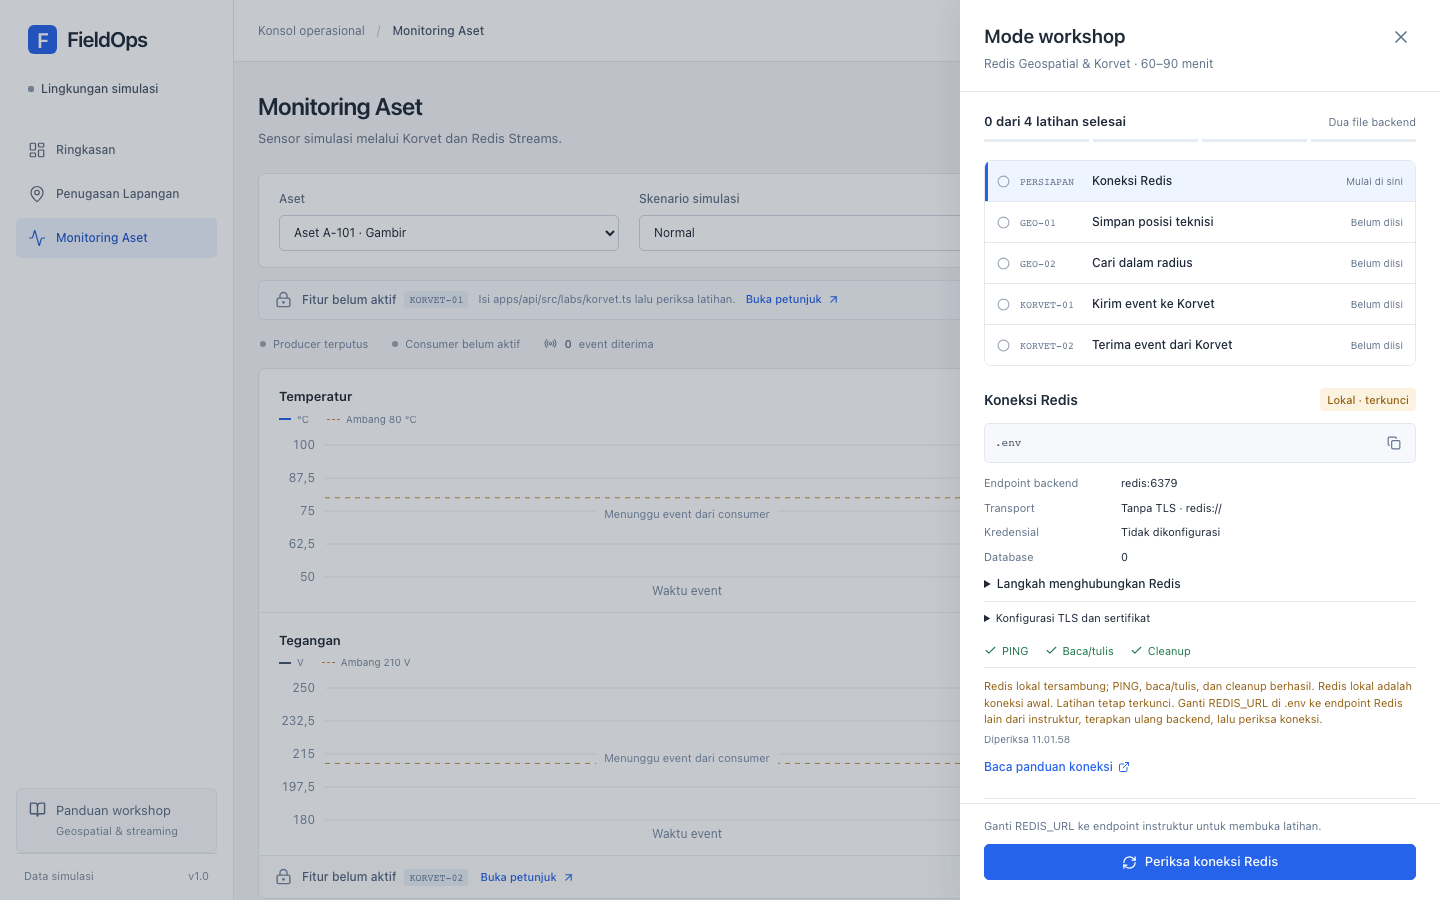
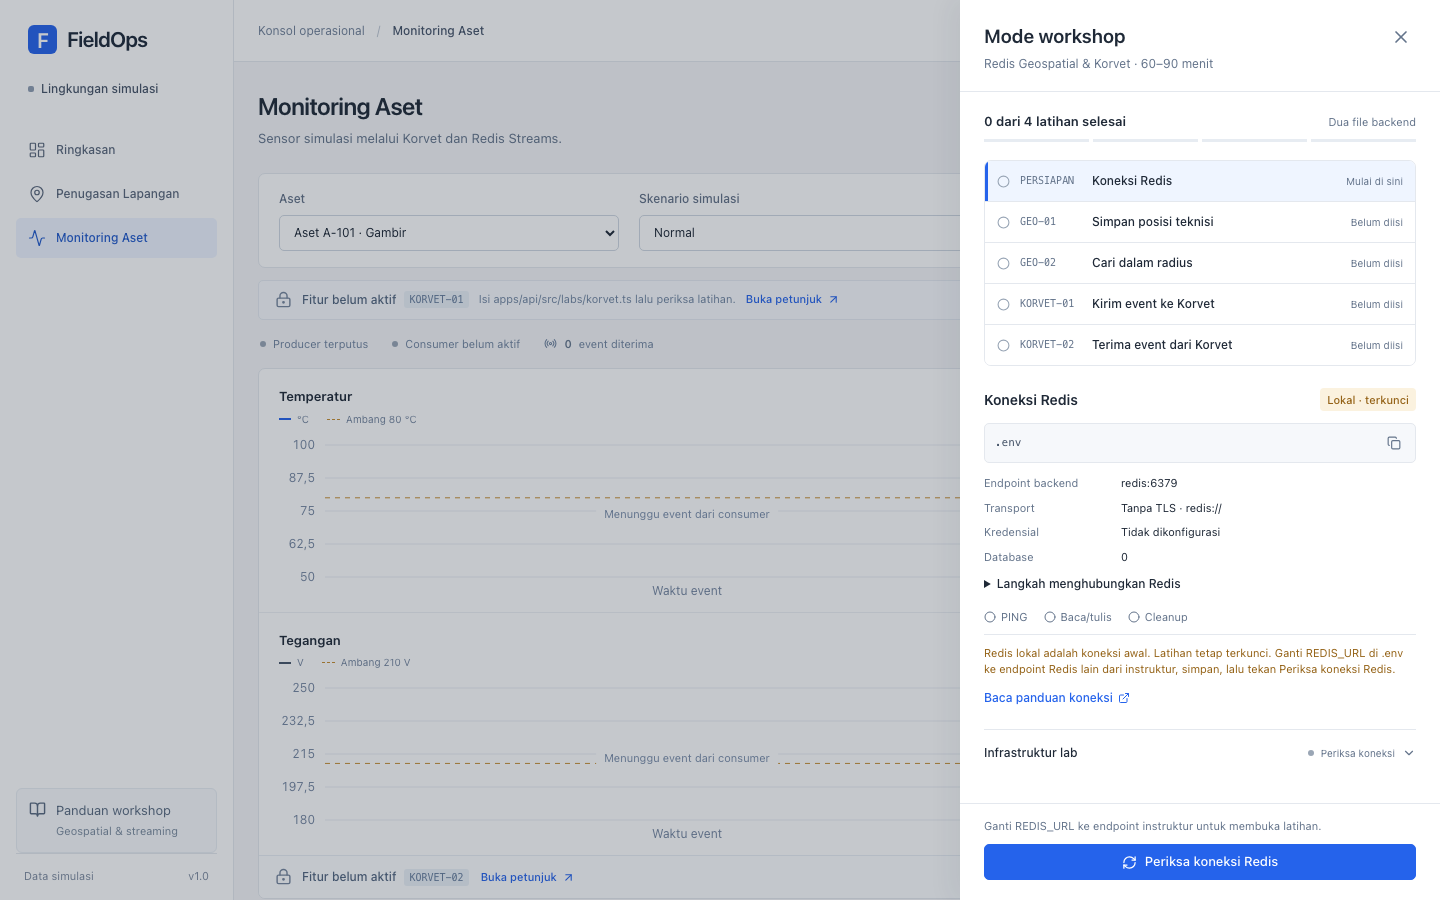
update readme

diff --git a/apps/api/src/operations/runtime.ts b/apps/api/src/operations/runtime.ts
@@ -3,11 +3,12 @@ import type { Consumer } from 'kafkajs';
 import { saveTechnicianPosition, findNearbyTechnicians } from '../labs/geo.js';
 import { publishTelemetry, consumeTelemetry } from '../labs/korvet.js';
 import { config } from '../infrastructure/config.js';
+import { readRedisEnvironment } from '../infrastructure/redis-environment.js';
 import { Infrastructure, makeConsumer } from '../infrastructure/clients.js';
 import { State } from './state.js';
 import { resetLabData } from './reset-data.js';
 import { Validator } from '../workshop/validator.js';
-import { checkRedisConnection } from '../workshop/redis-connection.js';
+import { checkRedisConnection, initialRedisConnection } from '../workshop/redis-connection.js';
 import { assets } from './fixtures.js';
 import { storedEvent } from '../infrastructure/stream-storage.js';
 import { ApiError, InfrastructureError, safeMessage, timeout } from '../shared/errors.js';
@@ -75,26 +76,54 @@ export class Runtime {
       throw new ApiError(409, 'Tunggu pemeriksaan yang sedang berjalan.');
     this.state.data.redisConnection.status = 'checking';
     this.state.emit();
-    const connection = await checkRedisConnection();
-    if (connection.status === 'passed') {
-      try {
-        await this.infra.connectRedis();
-      } catch {
-        connection.status = 'failed';
-        connection.message =
-          'Koneksi utama Redis belum siap. Periksa endpoint dan jaringan, lalu periksa koneksi kembali.';
+    try {
+      const settings = readRedisEnvironment();
+      if (JSON.stringify(settings) !== JSON.stringify(config.redis)) {
+        this.stopSimulator();
+        await this.stopConsumer();
+        await this.infra.resetRedis();
+        config.redis = settings;
+        this.state.clearData();
+        delete this.state.data.simulator.error;
+        for (const exercise of this.state.data.exercises) {
+          exercise.status = 'dependency';
+          exercise.message = 'Koneksi Redis berubah. Periksa latihan kembali pada endpoint ini.';
+          delete exercise.checkedAt;
+        }
       }
+      this.state.data.redisConnection = { ...initialRedisConnection(), status: 'checking' };
+      this.state.emit();
+      const connection = await checkRedisConnection();
+      if (connection.status === 'passed') {
+        try {
+          await this.infra.connectRedis();
+        } catch {
+          connection.status = 'failed';
+          connection.message =
+            'Koneksi utama Redis belum siap. Periksa endpoint dan jaringan, lalu periksa koneksi kembali.';
+        }
+      }
+      this.state.data.redisConnection = connection;
+      if (connection.status === 'passed') {
+        this.infra.enableStreaming();
+        this.state.activity('Koneksi Redis terverifikasi. Empat latihan siap diperiksa.');
+      } else {
+        this.stopSimulator();
+        await this.stopConsumer();
+        await this.infra.resetRedis();
+      }
+    } catch {
+      this.state.data.redisConnection = {
+        ...initialRedisConnection(),
+        status: 'failed',
+        checkedAt: new Date().toISOString(),
+        message: 'Koneksi belum dapat diperbarui. Periksa .env dan jaringan, lalu periksa kembali.',
+      };
+    } finally {
+      this.state.emit();
     }
-    this.state.data.redisConnection = connection;
-    if (this.state.data.redisConnection.status === 'passed') {
-      this.infra.enableStreaming();
-      this.state.activity('Koneksi Redis terverifikasi. Empat latihan siap diperiksa.');
-    } else {
-      this.stopSimulator();
-      await this.stopConsumer();
-    }
-    this.state.emit();
   }
+
   async validate(): Promise<void> {
     if (this.state.data.redisConnection.status !== 'passed') {
       const disconnected = this.state.data.redisConnection.status === 'failed';

diff --git a/apps/api/src/infrastructure/clients.ts b/apps/api/src/infrastructure/clients.ts
@@ -98,6 +98,7 @@ export class Infrastructure {
   korvetReady = false;
   producerReady = false;
   private connecting?: Promise<void>;
+  private resetting?: Promise<void>;
   private closed = false;
   private timer?: ReturnType<typeof setInterval>;
   private streamingEnabled = false;
@@ -111,14 +112,17 @@ export class Infrastructure {
     if (this.redisClient) return this.redisClient;
     const redis = makeRedis(true);
     redis.on('ready', () => {
+      if (this.redisClient !== redis) return;
       this.redisReady = true;
       this.changed();
     });
     redis.on('error', () => {
+      if (this.redisClient !== redis) return;
       this.redisReady = false;
       this.changed();
     });
     redis.on('end', () => {
+      if (this.redisClient !== redis) return;
       this.redisReady = false;
       this.changed();
     });
@@ -151,7 +155,8 @@ export class Infrastructure {
     void this.refresh();
   }
   async refresh(): Promise<void> {
-    if (this.closed || this.connecting) return this.connecting;
+    if (this.closed || this.resetting) return;
+    if (this.connecting) return this.connecting;
     this.connecting = (async () => {
       if (this.streamingEnabled)
         try {
@@ -189,9 +194,29 @@ export class Infrastructure {
         'Korvet tidak tersambung. Periksa KAFKA_BROKERS dan KORVET_BROKER_ADVERTISED_HOST.',
       );
   }
+  /** Tutup client endpoint sebelumnya sebelum konfigurasi Redis diganti dari UI. */
+  async resetRedis(): Promise<void> {
+    if (this.resetting) return this.resetting;
+    this.resetting = (async () => {
+      this.streamingEnabled = false;
+      await this.connecting?.catch(() => {});
+      await this.producer.disconnect().catch(() => {});
+      const redis = this.redisClient;
+      this.redisClient = undefined;
+      this.redisReady = false;
+      this.korvetReady = false;
+      this.producerReady = false;
+      if (redis?.isOpen) await redis.disconnect().catch(() => {});
+      this.changed();
+    })().finally(() => {
+      this.resetting = undefined;
+    });
+    await this.resetting;
+  }
   async close(): Promise<void> {
     this.closed = true;
     clearInterval(this.timer);
+    await this.resetting?.catch(() => {});
     await this.connecting?.catch(() => {});
     await this.producer.disconnect().catch(() => {});
     if (this.redisClient?.isOpen) await this.redisClient.disconnect().catch(() => {});

diff --git a/apps/web/src/features/workshop/RedisConnectionPanel.tsx b/apps/web/src/features/workshop/RedisConnectionPanel.tsx
@@ -78,14 +78,14 @@ export default function RedisConnectionPanel({ connection }: { connection: Redis
             <strong>Isi endpoint database</strong>
             <p>
               Ubah REDIS_URL di .env sesuai endpoint, port, dan akun Redis Enterprise dari
-              instruktur. Redis lokal bawaan hanya koneksi awal; latihan memerlukan endpoint lain.
+              instruktur. Gunakan redis:// atau rediss:// sesuai koneksi database yang disediakan.
             </p>
           </li>
           <li>
-            <strong>Terapkan konfigurasi backend</strong>
+            <strong>Simpan .env</strong>
             <p>
-              Jalankan ulang layanan dengan perintah Compose sesuai mode lab pada panduan. Perubahan
-              .env memerlukan recreate container.
+              Tekan Periksa koneksi Redis setelah menyimpan. Backend membaca ulang .env dan
+              mengganti sambungan yang berubah melalui pemeriksaan ini.
             </p>
           </li>
           <li>
@@ -96,17 +96,6 @@ export default function RedisConnectionPanel({ connection }: { connection: Redis
             </p>
           </li>
         </ol>
-      </details>
-      <details className="connection-tls">
-        <summary>Konfigurasi TLS dan sertifikat</summary>
-        <p>
-          Gunakan rediss:// untuk TLS. Jika memakai CA privat, isi REDIS_CA_FILE. Mutual TLS memakai
-          REDIS_CLIENT_CERT_FILE dan REDIS_CLIENT_KEY_FILE. Sertifikat berada di backend.
-        </p>
-        <p>
-          CA: {endpoint.caConfigured ? 'Dikonfigurasi' : 'Trust store sistem'} · Sertifikat client:{' '}
-          {endpoint.clientCertificateConfigured ? 'Dikonfigurasi' : 'Tidak dikonfigurasi'}
-        </p>
       </details>
       <div className="connection-checks" aria-label="Hasil pemeriksaan koneksi">
         {(

diff --git a/apps/api/src/infrastructure/redis-environment.ts b/apps/api/src/infrastructure/redis-environment.ts
@@ -1,0 +1,35 @@
+import { readFileSync } from 'node:fs';
+import { resolve } from 'node:path';
+import { parse } from 'dotenv';
+import { readRedisSettings } from './redis-settings.js';
+
+let fileWasPresent = false;
+const defaultFile = () =>
+  resolve(process.cwd(), process.cwd().endsWith('/apps/api') ? '../../.env' : '.env');
+
+/** Baca ulang hanya konfigurasi Redis; LAB_ID/topic/group tetap milik instance yang berjalan. */
+export function readRedisEnvironment() {
+  const file = process.env.WORKSHOP_ENV_FILE || defaultFile();
+  try {
+    const values = parse(readFileSync(file));
+    fileWasPresent = true;
+    return readRedisSettings({
+      ...process.env,
+      // File yang tersedia menjadi sumber koneksi. Nilai yang dihapus tidak memakai env lama.
+      REDIS_URL: values.REDIS_URL || '',
+      REDIS_CONNECT_TIMEOUT_MS: values.REDIS_CONNECT_TIMEOUT_MS || '5000',
+    });
+  } catch (error) {
+    // Endpoint instruktur juga bisa disediakan langsung sebagai environment tanpa file.
+    if (
+      (error as NodeJS.ErrnoException).code === 'ENOENT' &&
+      !process.env.WORKSHOP_ENV_FILE &&
+      !fileWasPresent
+    )
+      return readRedisSettings(process.env);
+    const settings = readRedisSettings({});
+    settings.issue =
+      'File .env tidak dapat dibaca backend. Simpan file konfigurasi lab, lalu tekan Periksa koneksi Redis kembali.';
+    return settings;
+  }
+}

diff --git a/apps/api/src/infrastructure/redis-settings.ts b/apps/api/src/infrastructure/redis-settings.ts
@@ -17,8 +17,6 @@ export function readRedisSettings(environment: NodeJS.ProcessEnv) {
     database: 0,
     tls: false,
     credentialsConfigured: false,
-    caConfigured: Boolean(caFile),
-    clientCertificateConfigured: Boolean(certFile && keyFile),
   };
   let issue: string | undefined;
   let options: RedisClientOptions | undefined;
@@ -49,7 +47,7 @@ export function readRedisSettings(environment: NodeJS.ProcessEnv) {
   } catch {
     issue = url
       ? 'REDIS_URL tidak valid. Gunakan redis:// atau rediss:// dengan hostname dan port database. Encode karakter khusus pada username/password.'
-      : 'REDIS_URL belum diisi. Isi endpoint database Redis di .env, terapkan ulang konfigurasi backend, lalu periksa koneksi.';
+      : 'REDIS_URL belum diisi. Isi endpoint database Redis di .env, simpan, lalu tekan Periksa koneksi Redis.';
   }
   if (
     !issue &&

diff --git a/apps/api/src/workshop/redis-connection.ts b/apps/api/src/workshop/redis-connection.ts
@@ -26,7 +26,7 @@ function failureMessage(error: unknown, phase: string): string {
   if (/NOPERM|permission|not allowed/i.test(message))
     return 'Izin ACL belum cukup. Akun perlu PING, SET, GET, dan DEL pada fieldops:<LAB_ID>:check:*.';
   if (/CERT|TLS|SSL|certificate|self.signed/i.test(code + message))
-    return 'TLS gagal. Gunakan rediss://, CA yang benar, hostname sesuai sertifikat, dan cert/key client jika mutual TLS diwajibkan.';
+    return 'TLS gagal. Periksa skema rediss:// dan pengaturan koneksi database dari instruktur.';
   if (/ENOTFOUND|EAI_AGAIN/.test(code))
     return 'Hostname Redis tidak ditemukan. Periksa endpoint database dan akses DNS/VPN dari backend.';
   if (/ECONNREFUSED|ETIMEDOUT|EHOSTUNREACH|ENETUNREACH|socket|timeout|waktu/i.test(code + message))

diff --git a/apps/web/src/features/workshop/WorkshopDrawer.tsx b/apps/web/src/features/workshop/WorkshopDrawer.tsx
@@ -360,7 +360,7 @@ export default function WorkshopDrawer({
                 ? 'Koneksi terverifikasi. Lanjutkan empat latihan backend.'
                 : state.redisConnection.status === 'local'
                   ? 'Ganti REDIS_URL ke endpoint instruktur untuk membuka latihan.'
-                  : 'Terapkan .env di backend, lalu periksa koneksi.'
+                  : 'Simpan .env, lalu tekan Periksa koneksi Redis.'
               : connectionReady
                 ? 'Simpan perubahan di editor, lalu periksa latihan.'
                 : 'Periksa koneksi Redis terlebih dahulu sebelum validasi latihan.'}

diff --git a/apps/api/src/infrastructure/config.ts b/apps/api/src/infrastructure/config.ts
@@ -1,7 +1,7 @@
 import { config as loadEnv } from 'dotenv';
 import { resolve } from 'node:path';
 import { z } from 'zod';
-import { readRedisSettings } from './redis-settings.js';
+import { readRedisEnvironment } from './redis-environment.js';
 loadEnv({
   path: resolve(process.cwd(), process.cwd().endsWith('/apps/api') ? '../../.env' : '.env'),
 });
@@ -23,7 +23,7 @@ export const config = {
   labId,
   topic,
   groupId,
-  redis: readRedisSettings(process.env),
+  redis: readRedisEnvironment(),
   brokers: (process.env.KAFKA_BROKERS || 'localhost:9092')
     .split(',')
     .map((s) => s.trim())

diff --git a/apps/web/src/features/assignment/AssignmentPage.tsx b/apps/web/src/features/assignment/AssignmentPage.tsx
@@ -29,6 +29,12 @@ export default function AssignmentPage({
     setLatitude(String(selected.latitude));
   }, [selectedId, selected.longitude, selected.latitude]);
   useEffect(() => setSuccess(''), [selectedId]);
+  useEffect(() => {
+    if (!s.positionsReady) {
+      setResults([]);
+      setSearched(false);
+    }
+  }, [s.positionsReady]);
   const connectionReady = s.redisConnection.status === 'passed' && s.infra.redis;
   const saveUnlocked =
     connectionReady && s.exercises.find((e) => e.id === 'GEO-01')?.status === 'passed';

diff --git a/apps/api/src/infrastructure/redis-endpoint.ts b/apps/api/src/infrastructure/redis-endpoint.ts
@@ -58,4 +58,4 @@ export async function isLocalRedisEndpoint(host: string): Promise<boolean> {
 }
 
 export const localRedisMessage =
-  'Redis lokal adalah koneksi awal. Latihan tetap terkunci. Ganti REDIS_URL di .env ke endpoint Redis lain dari instruktur, terapkan ulang backend, lalu periksa koneksi.';
+  'Redis lokal adalah koneksi awal. Latihan tetap terkunci. Ganti REDIS_URL di .env ke endpoint Redis lain dari instruktur, simpan, lalu tekan Periksa koneksi Redis.';

diff --git a/packages/contracts/src/index.d.ts b/packages/contracts/src/index.d.ts
@@ -19,8 +19,6 @@ export interface RedisConnection {
     database: number;
     tls: boolean;
     credentialsConfigured: boolean;
-    caConfigured: boolean;
-    clientCertificateConfigured: boolean;
   };
   message: string;
   checkedAt?: string;

diff --git a/README.md b/README.md
@@ -12,9 +12,31 @@ Peta menggunakan wilayah nyata di Jakarta Pusat. Identitas aset, teknisi, penemp
 
 ## Koneksi Redis
 
-Di FieldOps, buka **Mode workshop → Koneksi Redis**, lalu tekan **Periksa koneksi Redis**. Lanjutkan ketika status **Terverifikasi**. Jika muncul **Lokal · terkunci** atau pemeriksaan gagal, minta instruktur memeriksa koneksi database lab.
+Hubungkan FieldOps ke database workshop sebelum mengerjakan GEO-01. Alamat UI Redis digunakan untuk mengelola database; nilai `REDIS_URL` memakai endpoint dan port database yang dipilih.
 
-Setiap selesai mengedit kode, simpan file dan tunggu backend tersambung kembali. Periksa koneksi Redis jika diminta, kemudian pilih latihan dan tekan **Periksa latihan**. Pemeriksaan memakai Redis dan Korvet yang sebenarnya; fitur terbuka setelah hasilnya **Lulus**.
+1. Buka **https://redisdc.vtidemo.id:8443**, lalu **login** menggunakan akun UI Redis dari instruktur.
+2. Masuk ke menu **Databases / Database** dan pilih database workshop yang ditentukan instruktur. Database ini juga digunakan Korvet untuk menyimpan telemetry.
+3. Buka **Configuration → General**, lalu salin **endpoint database** beserta portnya. Siapkan username dan password database dari instruktur. Jika UI menyediakan connection URI lengkap, salin URI tersebut.
+4. Buka file **`.env` pada root repository**. Ganti nilai `REDIS_URL` dengan URI yang disalin. Jika yang tersedia hanya `HOST_DATABASE:PORT_DATABASE`, susun URI dengan format berikut:
+
+```dotenv
+REDIS_URL='redis://USERNAME:PASSWORD_DATABASE@HOST_DATABASE:PORT_DATABASE'
+```
+
+Ganti seluruh placeholder dengan detail database. Gunakan username `default` jika menggunakan password only. Karakter khusus pada username atau password perlu di-encode untuk URI, misalnya `@` menjadi `%40`. Jika yang disalin berupa perintah `redis-cli -u ...`, ambil URI setelah `-u` untuk nilai `REDIS_URL`.
+
+Untuk database dengan TLS aktif, gunakan skema `rediss://`:
+
+```dotenv
+REDIS_URL='rediss://USERNAME:PASSWORD_DATABASE@HOST_DATABASE:PORT_DATABASE'
+```
+
+5. Simpan `.env`, lalu buka **https://localhost:3000**. Pilih **Mode workshop → Koneksi Redis** dan tekan **Periksa koneksi Redis**. Tombol ini membaca ulang `.env` dan menerapkan koneksi terbaru. Periksa hostname dan port pada **Endpoint backend**.
+6. Lanjutkan ke **GEO-01** ketika status **Terverifikasi** dan pemeriksaan **PING**, **Baca/tulis**, serta **Cleanup** berhasil. Jika muncul **Lokal · terkunci**, periksa `REDIS_URL` yang disimpan. Jika koneksi gagal, cocokkan endpoint, port, kredensial, dan skema `redis://` atau `rediss://` dengan detail database.
+
+Jika endpoint berubah, simulator dan consumer dihentikan, lalu hasil pemeriksaan latihan dikosongkan untuk koneksi baru. Tekan **Periksa latihan** kembali sebelum melanjutkan kedua kasus. Perubahan `.env` diterapkan melalui UI tanpa menjalankan ulang layanan.
+
+Setiap selesai mengedit kode latihan, simpan file dan tunggu backend tersambung kembali. Periksa koneksi Redis jika diminta, kemudian pilih latihan dan tekan **Periksa latihan**. Pemeriksaan memakai Redis dan Korvet yang sebenarnya; fitur terbuka setelah hasilnya **Lulus**.
 
 ## Kasus 1 — Menentukan teknisi terdekat
 
@@ -212,7 +234,7 @@ Jawaban lengkap tersedia pada `workshop/solutions/geo.solution.ts` dan `workshop
 
 ## Referensi
 
-- Redis: [GEOADD](https://redis.io/docs/latest/commands/geoadd/), [GEOSEARCH](https://redis.io/docs/latest/commands/geosearch/), [Streams](https://redis.io/docs/latest/develop/data-types/streams/), [XLEN](https://redis.io/docs/latest/commands/xlen/), dan [XRANGE](https://redis.io/docs/latest/commands/xrange/).
+- Redis: [koneksi database Enterprise](https://redis.io/docs/latest/operate/rs/databases/connect/), [GEOADD](https://redis.io/docs/latest/commands/geoadd/), [GEOSEARCH](https://redis.io/docs/latest/commands/geosearch/), [Streams](https://redis.io/docs/latest/develop/data-types/streams/), [XLEN](https://redis.io/docs/latest/commands/xlen/), dan [XRANGE](https://redis.io/docs/latest/commands/xrange/).
 - KafkaJS 2.2.4: [producer](https://kafka.js.org/docs/producing) dan [consumer](https://kafka.js.org/docs/consuming).
 - Korvet: [release v0.19.0](https://github.com/redis-field-engineering/korvet-dist/releases/tag/v0.19.0), [README distribusi](https://github.com/redis-field-engineering/korvet-dist/blob/8ef461e8317b2590edfde386ee810154ef7d0971/README.adoc), [contoh kafka-cli](https://github.com/redis-field-engineering/korvet-dist/tree/8ef461e8317b2590edfde386ee810154ef7d0971/samples/kafka-cli), [contoh pacman](https://github.com/redis-field-engineering/korvet-dist/tree/8ef461e8317b2590edfde386ee810154ef7d0971/samples/pacman), [konfigurasi](https://redis-field-engineering.github.io/korvet/0.19/reference/configuration.html), dan [penyimpanan Streams](https://redis-field-engineering.github.io/korvet/0.19/storage/redis-streams.html).
 - Peta: [OpenStreetMap](https://www.openstreetmap.org/copyright) dan [sumber koordinat wilayah](apps/api/src/operations/jakarta-locations.json).
